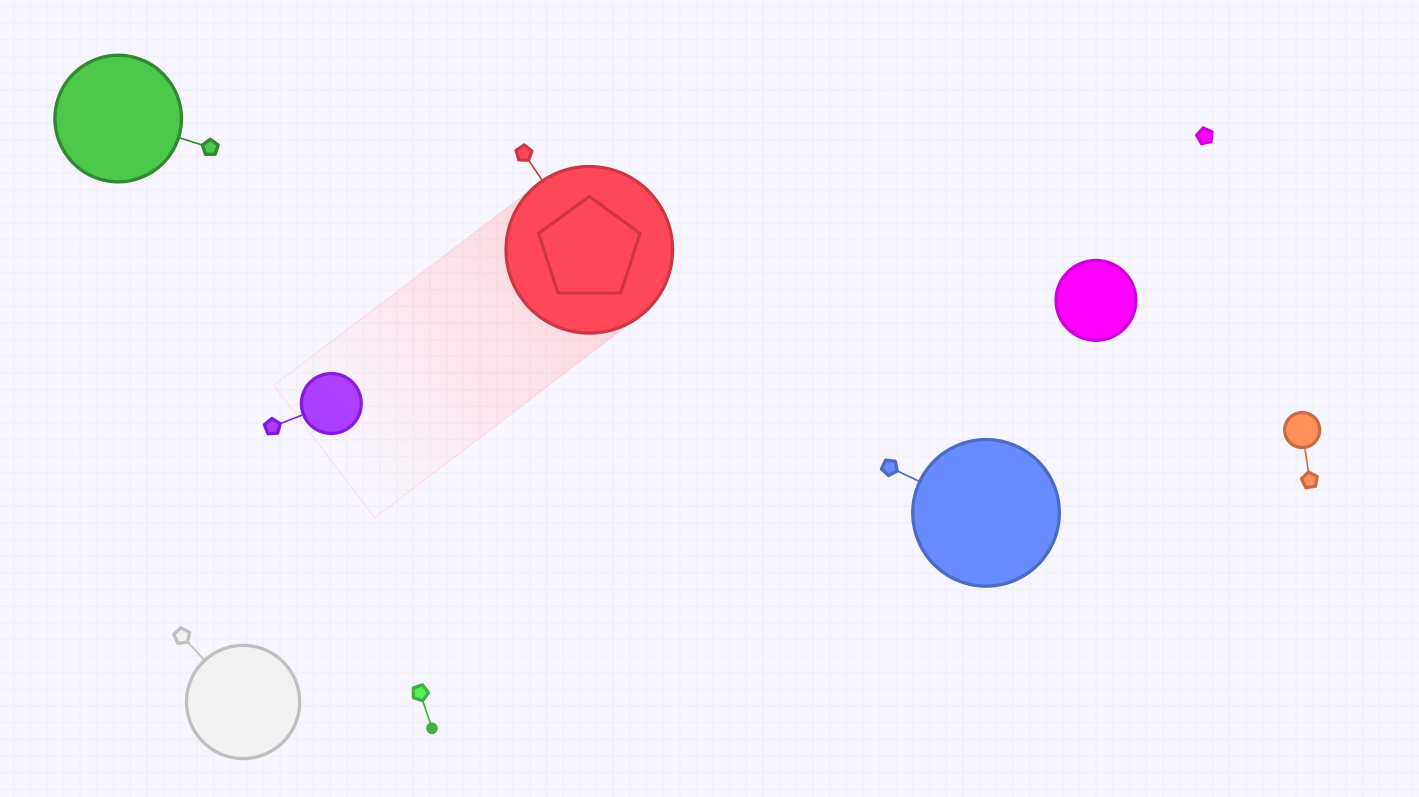
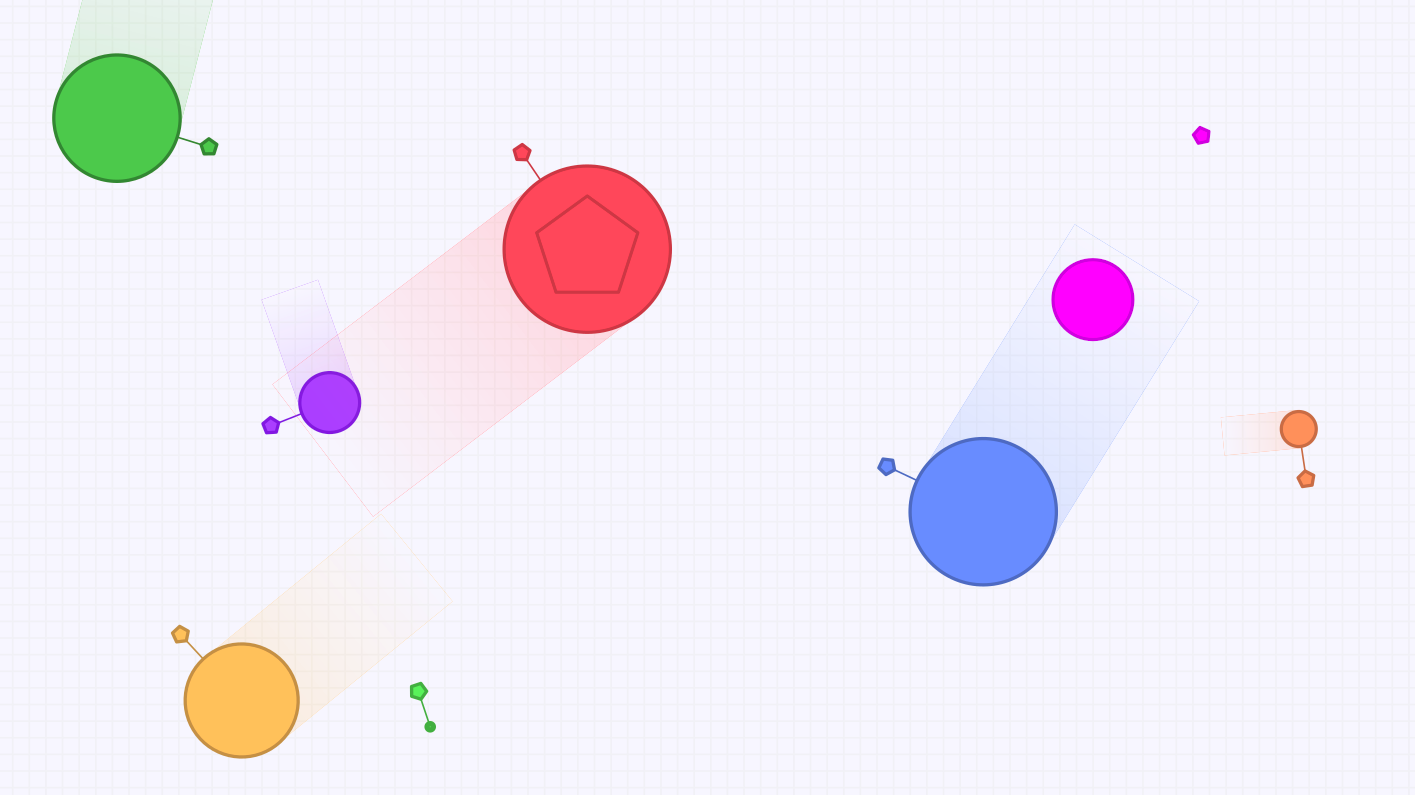
menu bg is also on red dc screen and yellow screen now

diff --git a/index.html b/index.html
@@ -1128,7 +1128,7 @@
             "Each kill gives flings (money)",
             "<-- Flex your fling count in the DISCORD!",
             "SPIN SPIN SPIN SPIN SPIN SPIN SPIN SPIN",
-            "Click the color button next to your name!",
+            "Click the color button next to your name to change it!",
         ]
         serverStatus = {
             text: '',
@@ -1574,12 +1574,16 @@ Ping: ${ping || 0}ms`
                     drawText(0, 22*(fov/360), 12*(fov/360), '#000000', `${disconnectAction}`, 0, 'center')
                     drawText(0, ((screenSizeY/2)-(8*(fov/360))), 8*(fov/360), '#000000', `${tips[tipsIndex]}`, 0, 'center')
                 } else if (disconnectWasFromServer == false) {
+                    let w = screenSizeX*(fov/480), h = screenSizeY*(fov/480), dw = w/h > 1415/795 ? w : h*1415/795
+                    ctx.drawImage(menuBackgroundImg, -dw/2, -(dw*795/1415)/2, dw, dw*795/1415)
                     drawRect(0, 0, screenSizeX*(fov/360), screenSizeY*(fov/360), 0, '#ffdb0080', 0, 0)
                     drawText(0, -22*(fov/360), 16*(fov/360), '#000000', `Failed to connect to server...`, 0, 'center')
                     drawText(0, 22*(fov/360), 12*(fov/360), '#000000', `${disconnectReason}`, 0, 'center')
                     drawText(0, 32*(fov/360), 8*(fov/360), '#000000', `${disconnectAction}`, 0, 'center', 'stacked')
                     drawText(0, ((screenSizeY/2)-(8*(fov/360))), 8*(fov/360), '#000000', `${tips[tipsIndex]}`, 0, 'center')
                 } else if (disconnectWasFromServer == true) {
+                    let w = screenSizeX*(fov/480), h = screenSizeY*(fov/480), dw = w/h > 1415/795 ? w : h*1415/795
+                    ctx.drawImage(menuBackgroundImg, -dw/2, -(dw*795/1415)/2, dw, dw*795/1415)
                     drawRect(0, 0, screenSizeX*(fov/360), screenSizeY*(fov/360), 0, '#620000c0', 0, 0)
                     drawText(0, -22*(fov/360), 16*(fov/360), '#000000', `Disconnected!`, 0, 'center')
                     drawText(0, 22*(fov/360), 12*(fov/360), '#000000', `${disconnectReason}`, 0, 'center')